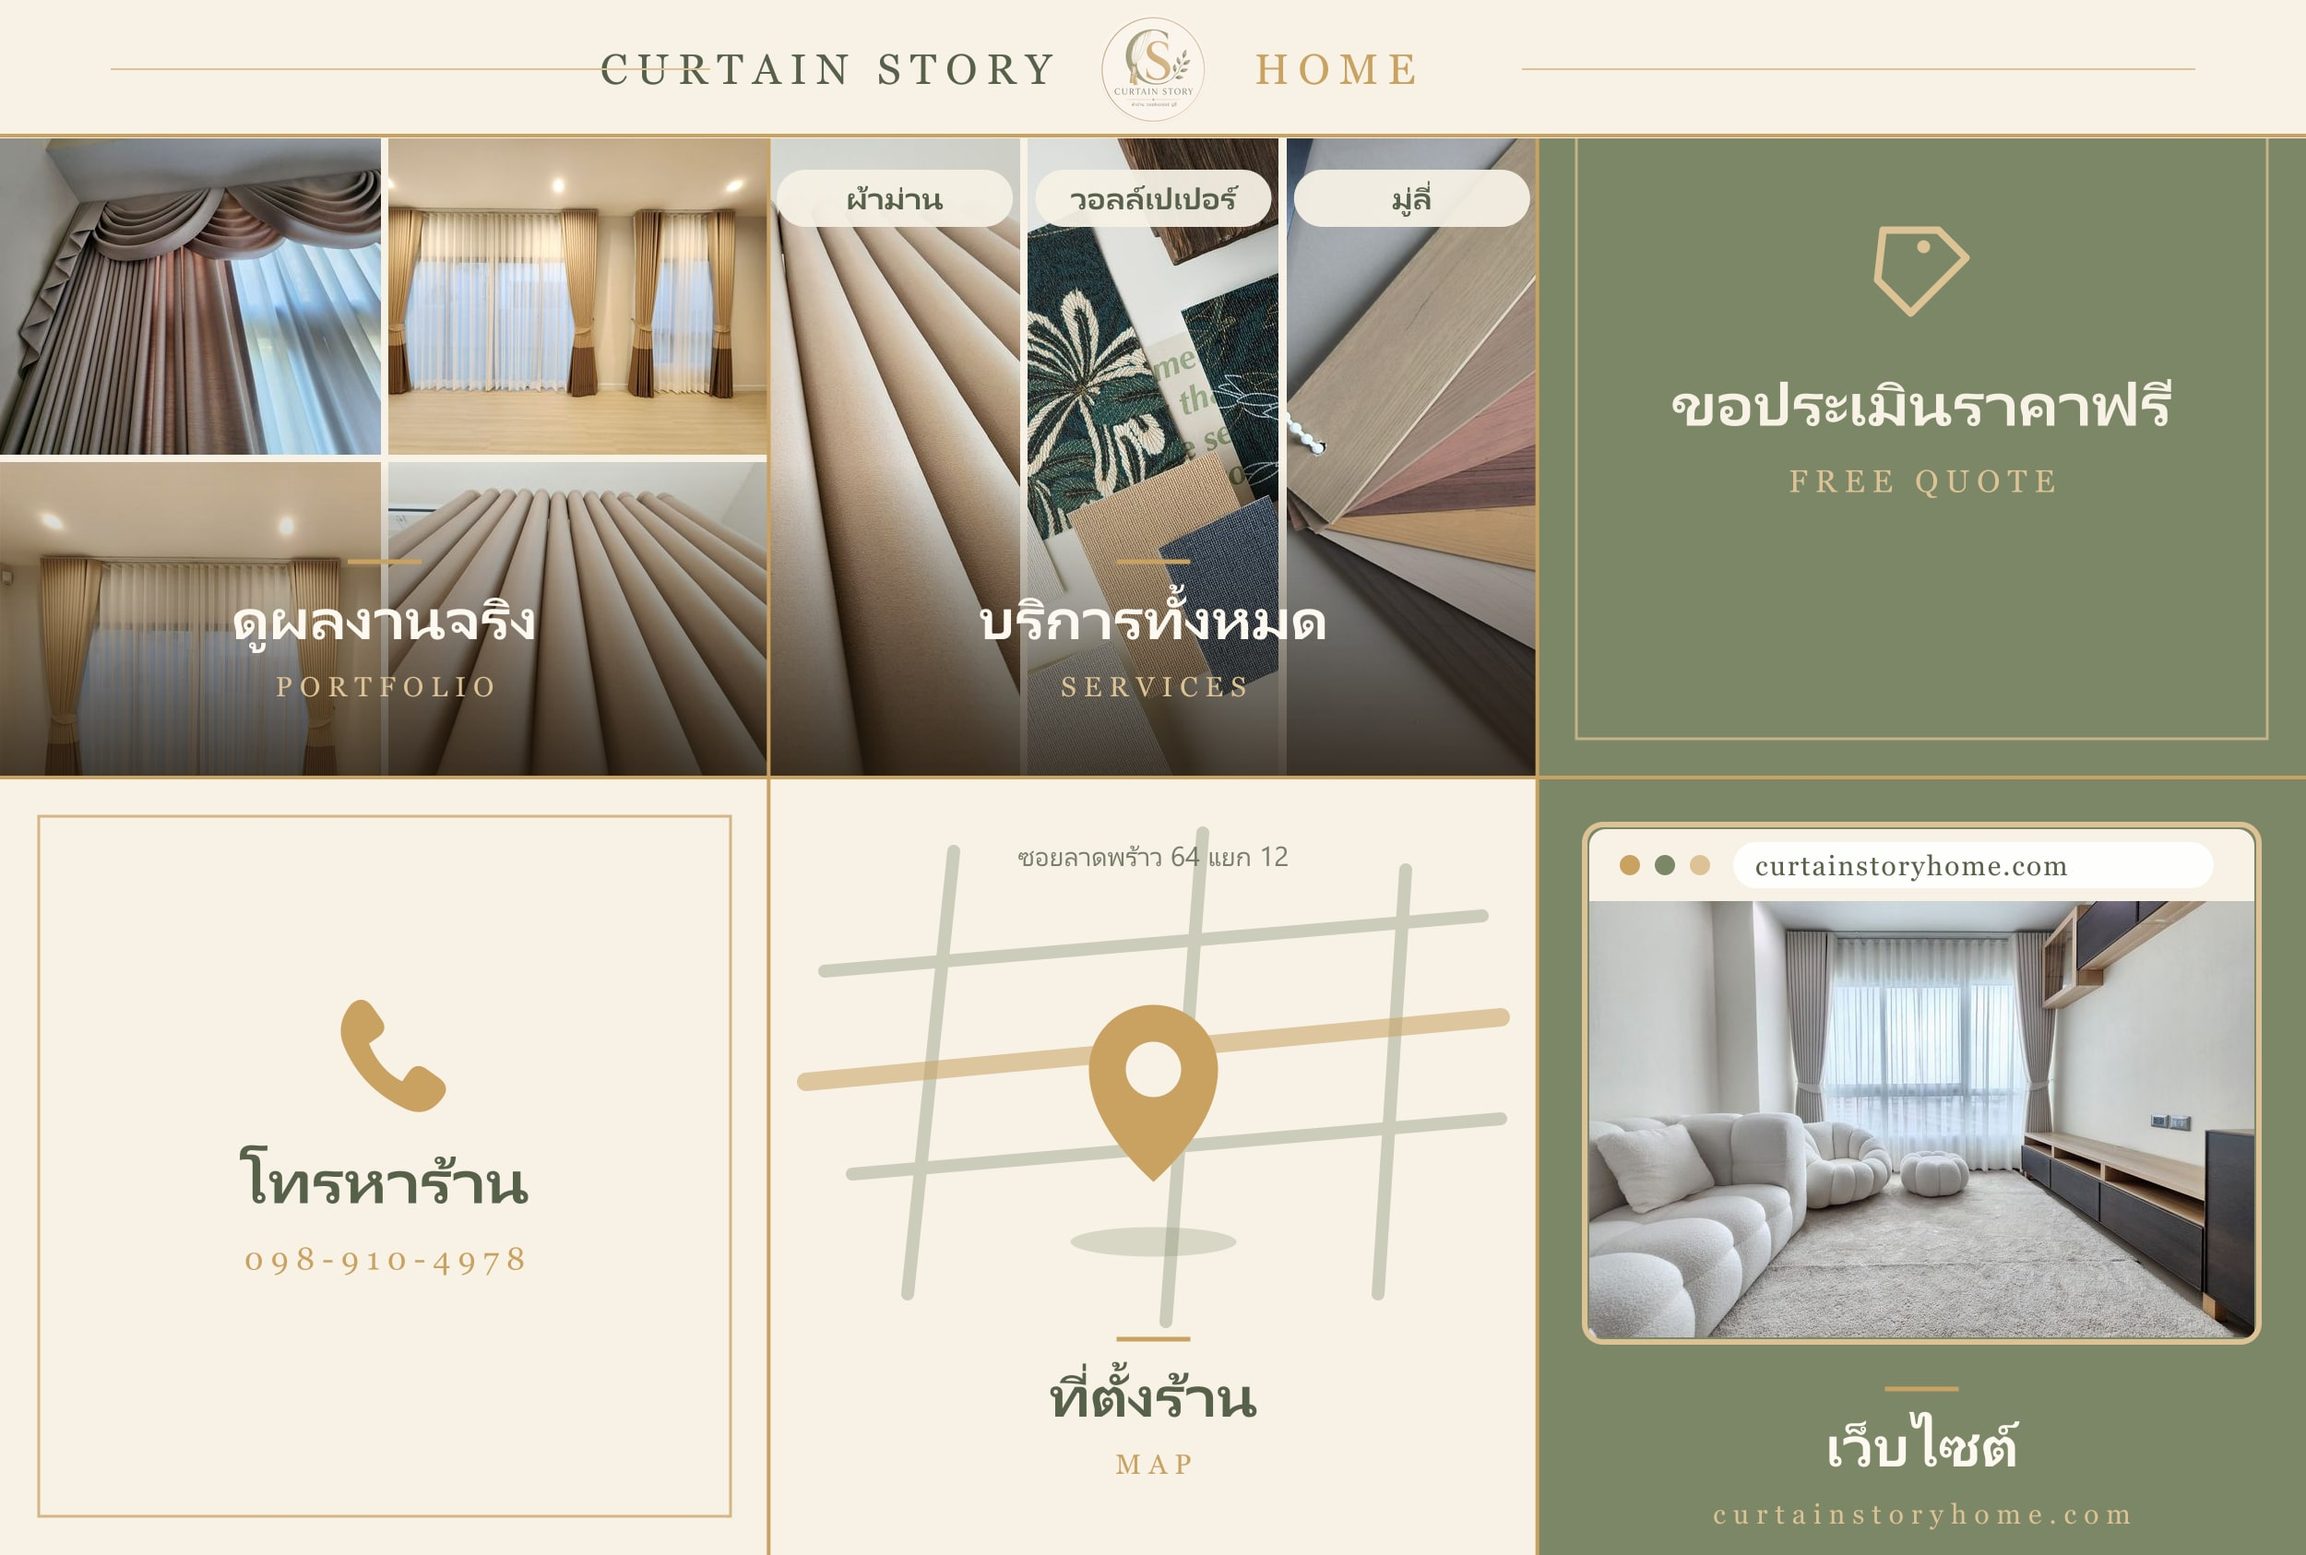
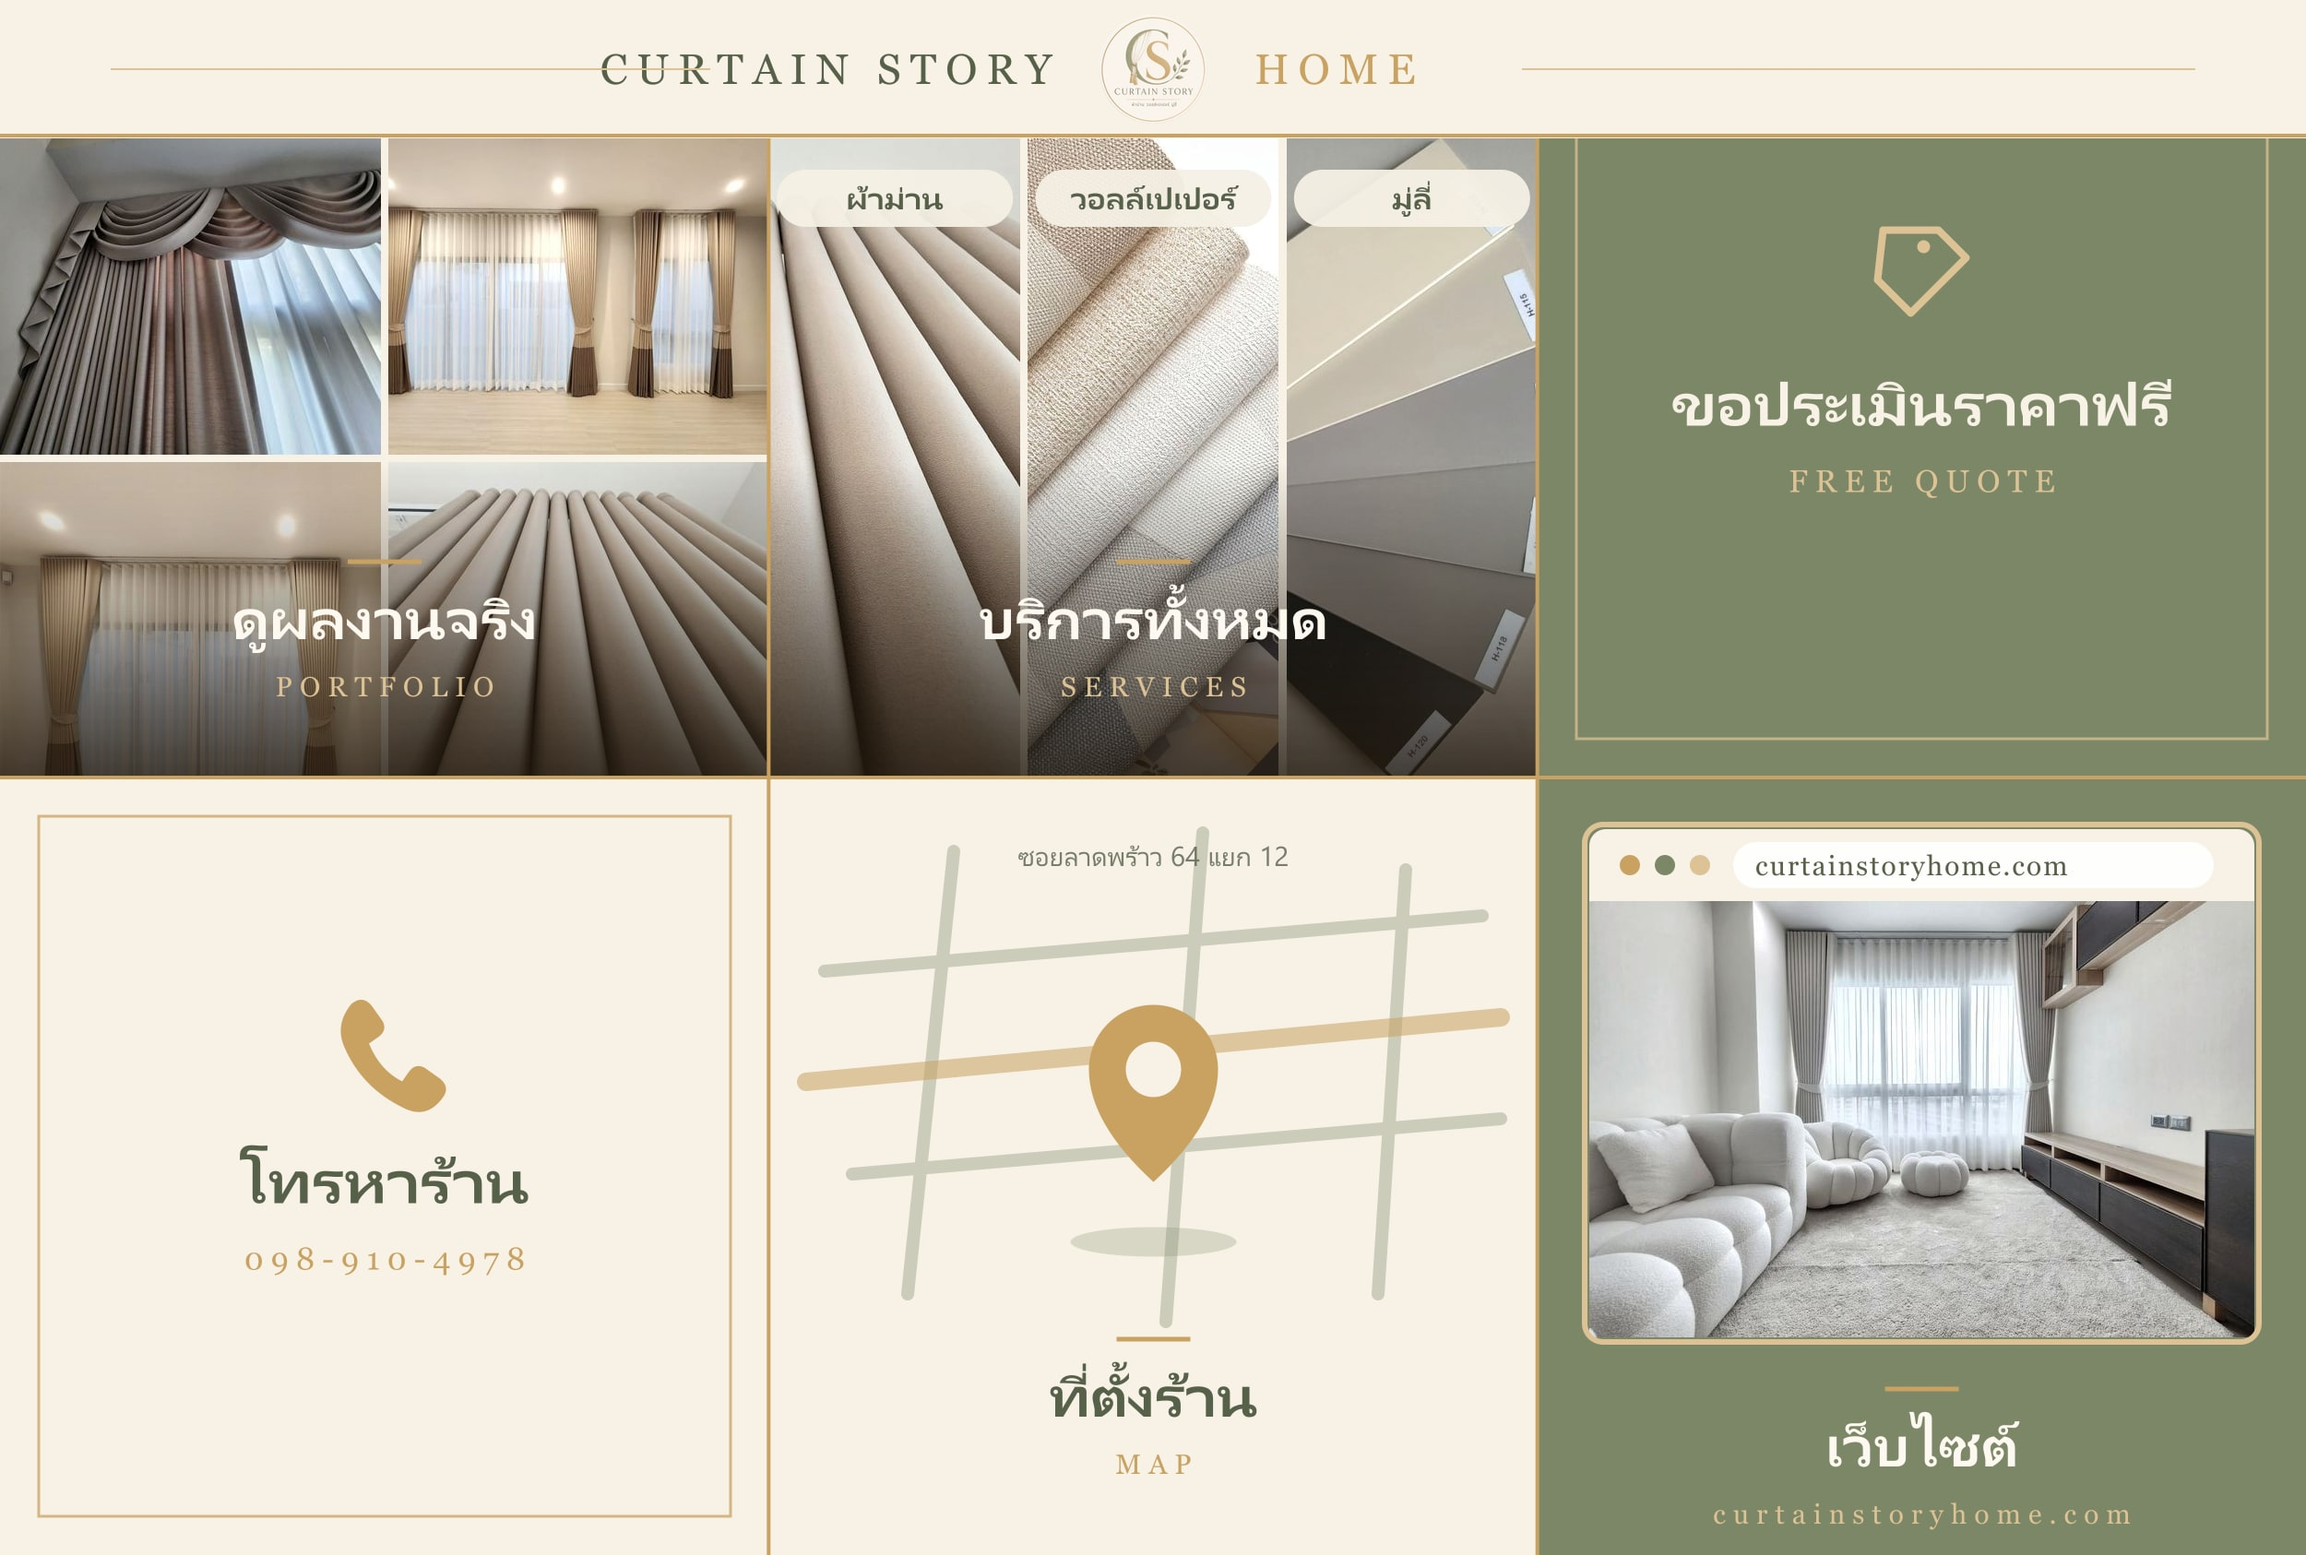
Tighten the hero and point crash-page LINE links at the new account
The hero photo stood 184px taller than the text beside it, so items-center
split the difference into empty cream above and below the copy; 6:5 lands
within 15px of the text column and the section drops 757px to 573px.

Both error pages still hard-coded lin.ee/zb4t3sM — the old OA, which is
scheduled to close. They now use the permanent @curtainstoryhome address
so the last contact route on a broken page cannot die with a redirect.

diff --git a/app/(site)/page.tsx b/app/(site)/page.tsx
@@ -41,7 +41,7 @@ export default async function Home() {
             itself — before any long copy. This is a business people buy with
             their eyes, and the previous order pushed the photo almost entirely
             below the fold behind a 280-character paragraph. */}
-        <Container className="flex flex-col gap-8 py-12 sm:py-16 lg:grid lg:grid-cols-2 lg:items-center lg:gap-14 lg:py-24">
+        <Container className="flex flex-col gap-8 py-12 sm:py-16 lg:grid lg:grid-cols-[minmax(0,1fr)_minmax(0,1.05fr)] lg:items-center lg:gap-16 lg:py-16 xl:py-20">
           {/* `contents` on a phone lets the two text blocks be ordered
               individually around the photo; from lg it becomes one grid cell
               so the text simply stacks in the left column beside the picture.
@@ -83,7 +83,11 @@ export default async function Home() {
             </div>
           </div>
 
-          <div className="relative order-2 aspect-[4/3] w-full rounded-3xl shadow-[0_30px_70px_-28px_rgba(60,42,20,0.6)] lg:aspect-[5/6]">
+          {/* 5:6 stood 184px taller than the text beside it, so `items-center`
+              split that difference into empty cream above and below the copy.
+              6:5 lands within ~15px of the text column: the two sides now end
+              together and the hero stops overshooting the fold. */}
+          <div className="relative order-2 aspect-[4/3] w-full rounded-3xl shadow-[0_30px_70px_-28px_rgba(60,42,20,0.6)] lg:aspect-[6/5]">
             <HeroCarousel alt={business.name} images={heroImages} />
           </div>
         </Container>

diff --git a/app/(site)/error.tsx b/app/(site)/error.tsx
@@ -12,7 +12,10 @@ import Link from "next/link";
 // number and LINE link are written in here rather than fetched. They are the
 // one thing that must survive when nothing else does.
 const FALLBACK_PHONE = "098-910-4978";
-const FALLBACK_LINE = "https://lin.ee/zb4t3sM";
+// The permanent @curtainstoryhome address, not a lin.ee short link: this is
+// the last contact route a customer has when the page has failed, so it must
+// not depend on a redirect that can be retired with the old account.
+const FALLBACK_LINE = "https://line.me/R/ti/p/%40curtainstoryhome";
 
 export default function SiteError({
   error,

diff --git a/app/global-error.tsx b/app/global-error.tsx
@@ -6,7 +6,8 @@ import { useEffect } from "react";
 // page cannot reach, because at that point no layout, fonts or stylesheet have
 // rendered. Everything here is inline for that reason.
 const FALLBACK_PHONE = "098-910-4978";
-const FALLBACK_LINE = "https://lin.ee/zb4t3sM";
+// Permanent @curtainstoryhome address — see the note in (site)/error.tsx.
+const FALLBACK_LINE = "https://line.me/R/ti/p/%40curtainstoryhome";
 
 export default function GlobalError({
   error,
